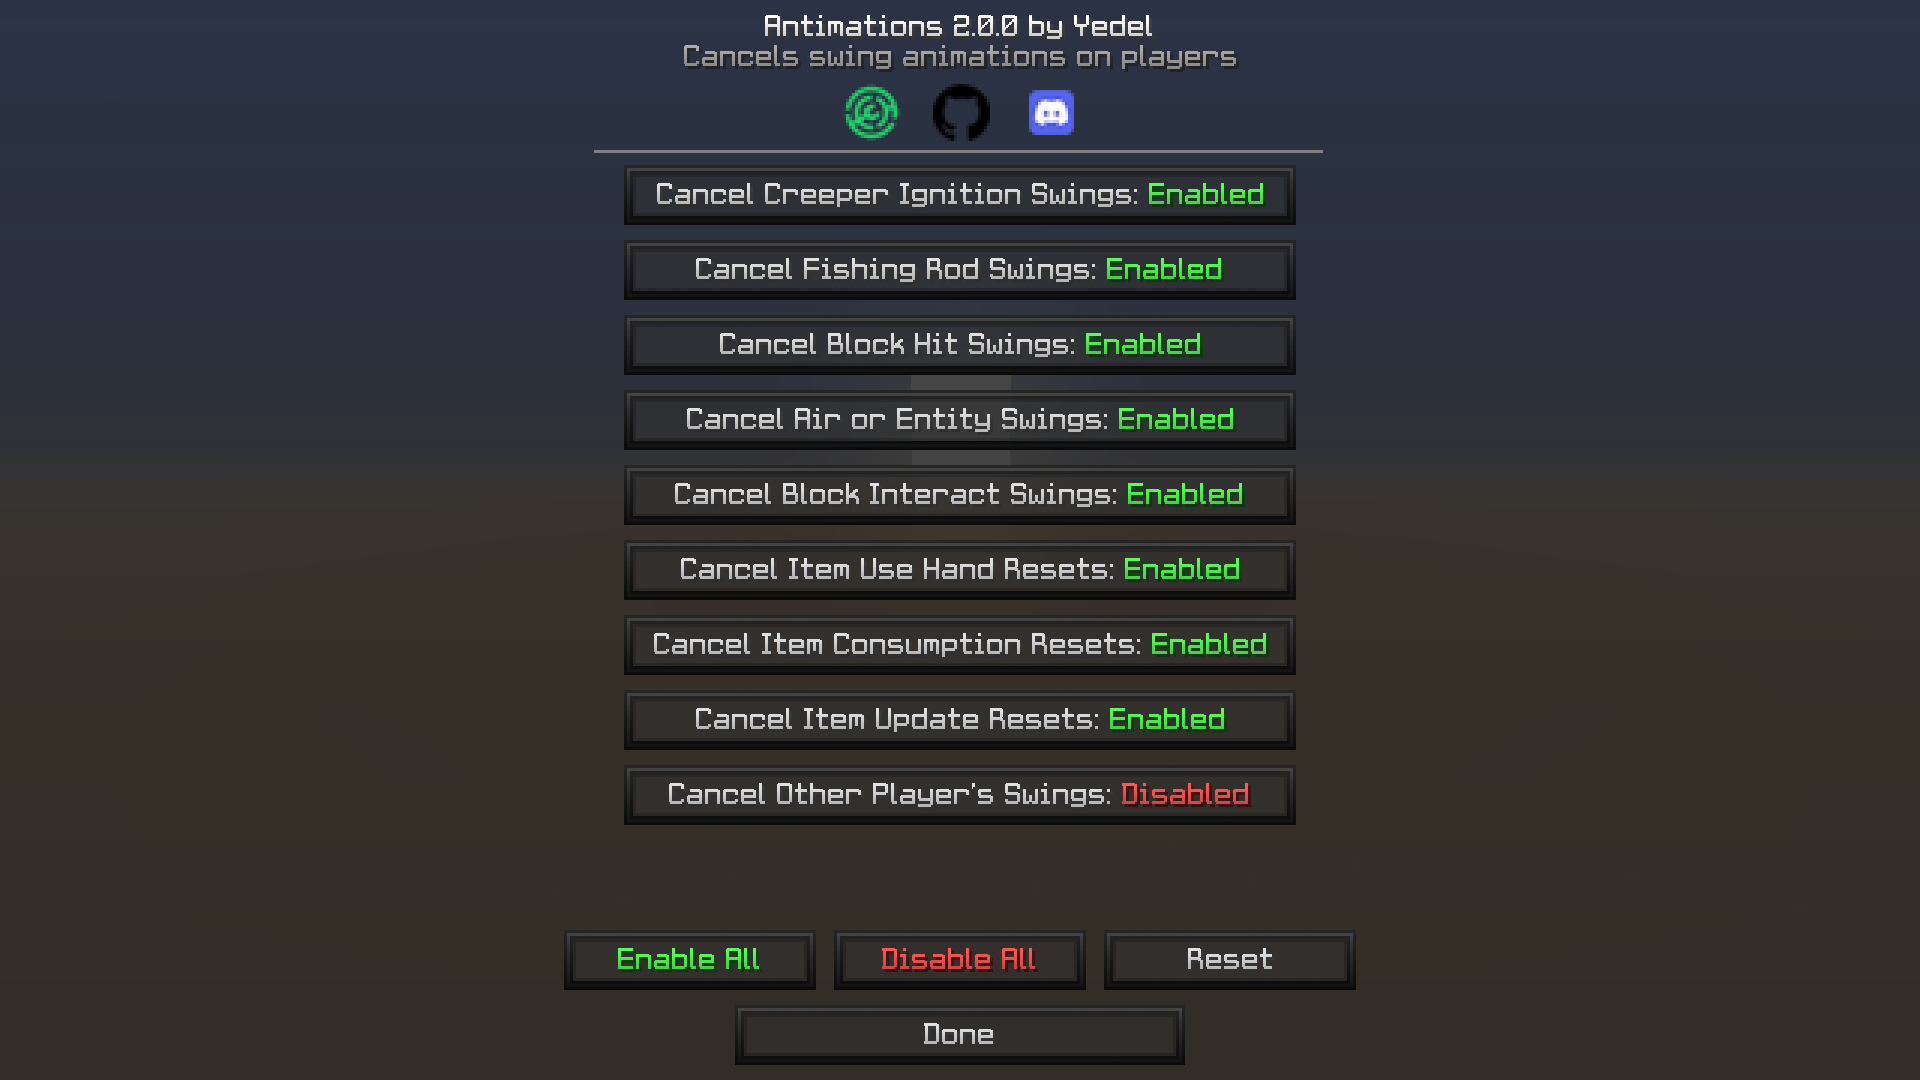
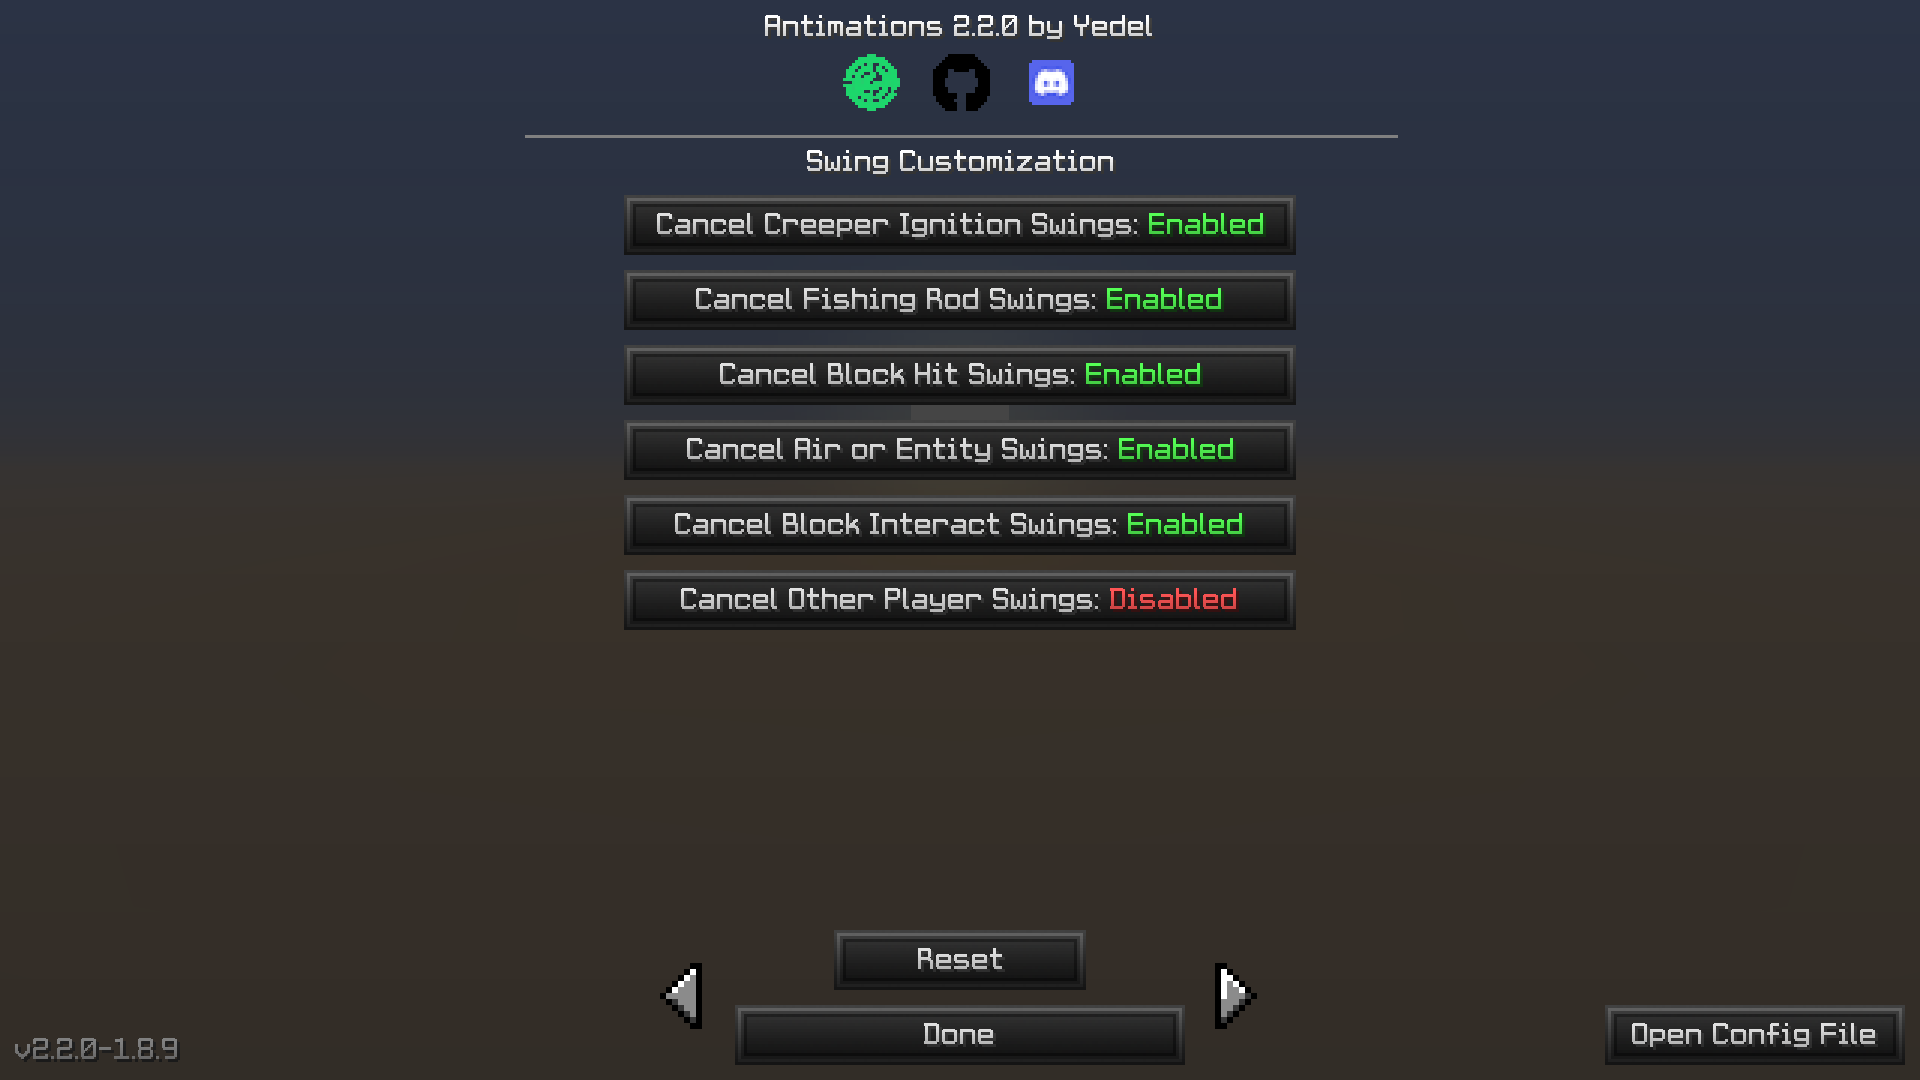
2.2.0, make mixins non-verbose, update config image

diff --git a/src/main/java/at/yedel/antimations/Antimations.java b/src/main/java/at/yedel/antimations/Antimations.java
@@ -43,7 +43,7 @@ import net.minecraftforge.fml.relauncher.Side;
 public class Antimations {
     public static final String modid = "antimations";
     public static final String name = "Antimations";
-    public static final String version = "2.1.0";
+    public static final String version = "2.2.0";
     public static final String totalVersionString = "v" + version + "-" + RealmsSharedConstants.VERSION_STRING;
 
     public static final Minecraft minecraft = Minecraft.getMinecraft();

diff --git a/README.md b/README.md
@@ -1,6 +1,6 @@
 # Antimations (1.8.9)
 
-![version 2.1.0](https://img.shields.io/badge/version-v2.1.0-lightblue)
+![version 2.2.0](https://img.shields.io/badge/version-v2.2.0-lightblue)
 
 Cancels swing and other animations on players. Packets will still be sent so the mod is safe to use for anticheats.
 
